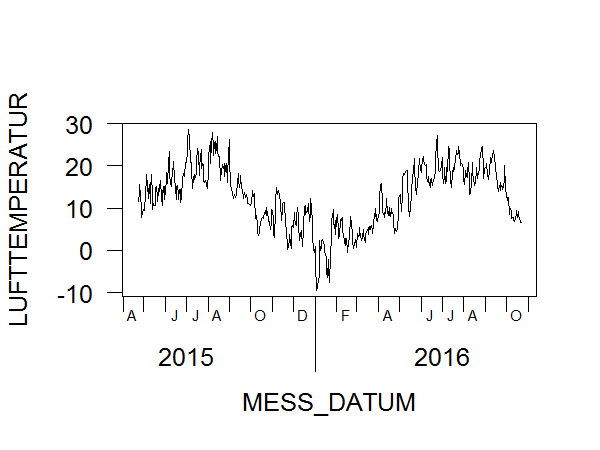
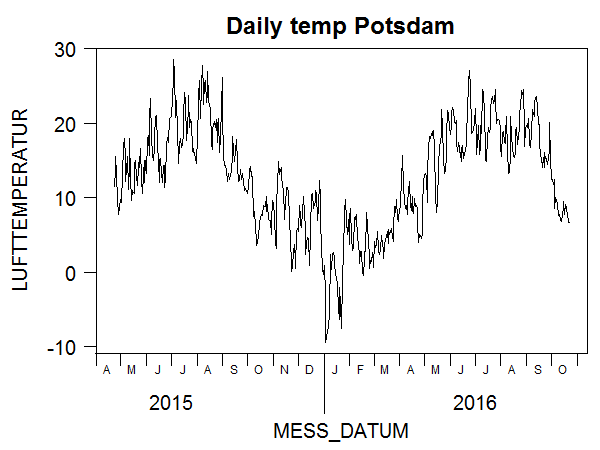
prettier graph

diff --git a/README.md b/README.md
@@ -33,7 +33,8 @@ climdata <- dataDWD(link, dir=tempdir())
 
 ```R
 png("ExampleGraph.png", width=4, height=3, units="in", res=150)
-plot(climdata[,c(2,4)], type="l", xaxt="n", las=1)
+par(mar=c(4,4,2,0.5), mgp=c(2.7, 0.8, 0), cex=0.8)
+plot(climdata[,c(2,4)], type="l", xaxt="n", las=1, main="Daily temp Potsdam")
 berryFunctions::monthAxis(ym=TRUE)
 dev.off()
 ```
